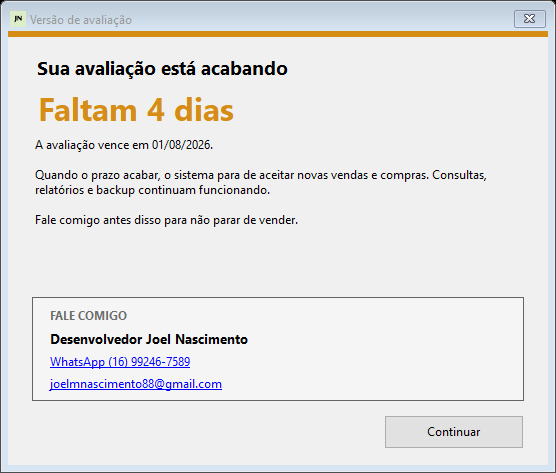
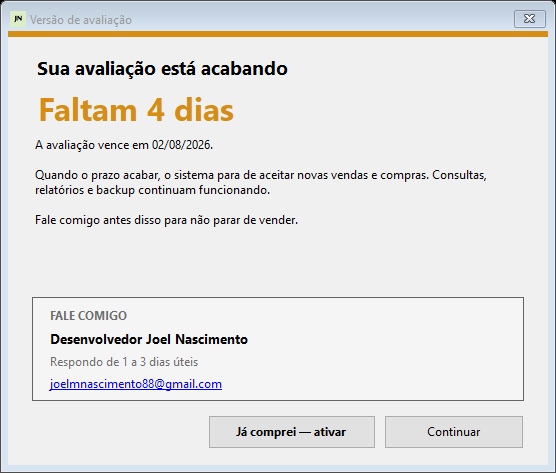
Pede o contato antes de liberar o download
O diálogo que abre ao clicar em Baixar ganhou uma primeira etapa: e-mail
obrigatório, nome e WhatsApp opcionais, e uma caixa de aceite. Os dados vão
para um formulário do Google, que grava numa planilha — sem biblioteca, sem
chave de API e sem serviço de terceiro no meio.

O aceite NÃO trava o download; o site manda "Sim" ou "Não" conforme a caixa.
Consentimento que só existe porque foi exigido em troca do arquivo não vale
grande coisa, nem para a LGPD nem na prática. O e-mail continua obrigatório,
que é o que identifica o download.

Se o envio falhar, o download acontece assim mesmo. Bloqueador de anúncio
derruba essa requisição com frequência, e prender o visitante por causa de um
formulário quebrado custa mais que a lista.

Cuidado ao mexer no formulário: todo campo obrigatório lá tem que ser enviado
aqui. O Google não responde a chamadas de outra origem, então uma recusa dele
é invisível para o navegador — o visitante veria o download liberado e a
planilha ficaria vazia, sem nada avisando. Foi o que aconteceu no primeiro
teste, com o formulário exigindo login: 401 em todas as tentativas.

Também atualiza o print do aviso de avaliação, que ganhou o botão de ativar.

diff --git a/index.html b/index.html
@@ -250,6 +250,39 @@ p{margin:0 0 1em;color:var(--creme-medio)}
   border-top:1px solid rgba(251,146,60,.14);
   font-size:.9rem;color:var(--creme-fraco);
 }
+
+/* Etapas do diálogo: pedir o e-mail e, depois, explicar a instalação.
+   Sem o formulário configurado o JS pula direto para a segunda. */
+.dialogo [data-etapa]{display:none}
+.dialogo[data-fase="email"] [data-etapa="email"]{display:block}
+.dialogo[data-fase="instrucoes"] [data-etapa="instrucoes"]{display:block}
+
+.campo{
+  width:100%;padding:.85rem 1rem;margin-top:.35rem;
+  background:rgba(255,255,255,.05);
+  border:1px solid rgba(237,232,222,.22);
+  border-radius:12px;
+  color:var(--creme);font-size:1rem;font-family:inherit;
+}
+.campo:focus{outline:none;border-color:var(--laranja)}
+.campo::placeholder{color:var(--creme-fraco)}
+
+.rotulo-campo{display:block;font-weight:600;font-size:.95rem;color:var(--creme);margin-top:1rem}
+.opcional{font-weight:400;font-size:.82rem;color:var(--creme-fraco)}
+
+/* Nome e WhatsApp lado a lado só quando há largura; empilham no celular. */
+.dupla{display:grid;gap:.9rem}
+@media (min-width:520px){.dupla{grid-template-columns:1fr 1fr}}
+
+.aceite{
+  display:flex;gap:.6rem;align-items:flex-start;
+  margin-top:1.1rem;font-size:.9rem;color:var(--creme-fraco);cursor:pointer;
+}
+.aceite input{margin-top:.2rem;accent-color:var(--laranja);width:1.05rem;height:1.05rem;flex:none}
+
+.erro{
+  margin:.9rem 0 0;font-size:.9rem;color:#fca5a5;min-height:1.2em;
+}
 .porque b{color:var(--creme)}
 .fechar{
   position:absolute;top:.9rem;right:1rem;
@@ -292,8 +325,8 @@ p{margin:0 0 1em;color:var(--creme-medio)}
     </p>
     <div class="btns">
       <!-- Coloque o instalador na mesma pasta deste site para o link funcionar. -->
-      <a class="btn btn--principal" href="https://github.com/Joel92246405/sistema-vendas/releases/latest/download/SistemaVendas_Setup_1.0.2.0_Trial.exe" data-baixar>Baixar avaliação de 30 dias</a>
-      <a class="btn btn--zap" href="https://wa.me/5516992467589" target="_blank" rel="noopener">Falar no WhatsApp</a>
+      <a class="btn btn--principal" href="https://github.com/Joel92246405/sistema-vendas/releases/latest/download/SistemaVendas_Setup_1.0.3.0.exe" data-baixar>Baixar avaliação de 30 dias</a>
+      <a class="btn btn--zap" href="mailto:joelmnascimento88@gmail.com?subject=Sistema%20de%20Vendas">Falar comigo por e-mail</a>
     </div>
   </div>
 </section>
@@ -613,12 +646,16 @@ p{margin:0 0 1em;color:var(--creme-medio)}
           </li>
           <li>
             <b>Decida sem pressa</b>
-            <span>O sistema mostra quantos dias restam a cada abertura. Terminando o prazo, é só falar comigo para liberar.</span>
+            <span>O sistema mostra quantos dias restam a cada abertura. Nada de cadastro, cartão ou cobrança automática no fim do prazo.</span>
+          </li>
+          <li>
+            <b>Gostou? É só ativar</b>
+            <span>Comprando, você recebe um código. Abre <b>Arquivo → Ativar Licença</b>, me manda o código do computador e eu devolvo a licença. Vale para 2 computadores e não precisa de internet depois.</span>
           </li>
         </ol>
 
         <div class="btns">
-          <a class="btn btn--principal" href="https://github.com/Joel92246405/sistema-vendas/releases/latest/download/SistemaVendas_Setup_1.0.2.0_Trial.exe" data-baixar>Baixar agora</a>
+          <a class="btn btn--principal" href="https://github.com/Joel92246405/sistema-vendas/releases/latest/download/SistemaVendas_Setup_1.0.3.0.exe" data-baixar>Baixar agora</a>
         </div>
       </div>
 
@@ -655,15 +692,14 @@ p{margin:0 0 1em;color:var(--creme-medio)}
     <p>Atendimento direto com quem desenvolve o sistema — sem fila, sem chamado, sem robô.</p>
 
     <div class="btns">
-      <a class="btn btn--principal" href="https://wa.me/5516992467589" target="_blank" rel="noopener">Chamar no WhatsApp</a>
-      <a class="btn btn--zap" href="mailto:joelmnascimento88@gmail.com?subject=Sistema%20de%20Vendas">Mandar e-mail</a>
+      <a class="btn btn--principal" href="mailto:joelmnascimento88@gmail.com?subject=Sistema%20de%20Vendas">Mandar e-mail</a>
     </div>
 
     <p class="assinatura">
       <b>Joel Nascimento</b> — Desenvolvedor<br>
-      WhatsApp <a href="https://wa.me/5516992467589" target="_blank" rel="noopener">(16) 99246-7589</a>
-      &nbsp;·&nbsp;
       <a href="mailto:joelmnascimento88@gmail.com">joelmnascimento88@gmail.com</a>
+      &nbsp;·&nbsp;
+      respondo de 1 a 3 dias úteis
     </p>
   </div>
 </section>
@@ -677,19 +713,65 @@ p{margin:0 0 1em;color:var(--creme-medio)}
   </div>
 </footer>
 
-<!-- Aparece depois do clique em baixar. O download acontece do mesmo jeito:
-     este aviso só explica a tela do Windows que vem a seguir. -->
+<!-- Aparece ao clicar em baixar. Duas etapas: o e-mail e, depois, o aviso do
+     SmartScreen. Sem o formulário configurado no script, a primeira é pulada e
+     o download acontece direto, como antes. -->
 <div class="veu" id="veuInstalacao" role="dialog" aria-modal="true" aria-labelledby="tituloAviso">
-  <div class="dialogo">
+  <div class="dialogo" id="dialogoBaixar" data-fase="instrucoes">
     <button class="fechar" type="button" data-fechar aria-label="Fechar">&times;</button>
 
+    <div data-etapa="email">
+      <h3>Quase lá</h3>
+      <p>Deixe seu e-mail e o download começa em seguida.</p>
+
+      <form id="formEmail" novalidate>
+        <label class="rotulo-campo" for="campoEmail">Seu e-mail</label>
+        <input class="campo" id="campoEmail" name="email" type="email"
+               placeholder="voce@exemplo.com" autocomplete="email" required>
+
+        <div class="dupla">
+          <div>
+            <label class="rotulo-campo" for="campoNome">Nome <span class="opcional">opcional</span></label>
+            <input class="campo" id="campoNome" type="text" placeholder="como te chamo"
+                   autocomplete="name">
+          </div>
+          <div>
+            <label class="rotulo-campo" for="campoZap">WhatsApp <span class="opcional">opcional</span></label>
+            <input class="campo" id="campoZap" type="tel" placeholder="(00) 00000-0000"
+                   autocomplete="tel">
+          </div>
+        </div>
+
+        <label class="aceite">
+          <input type="checkbox" id="campoAceite">
+          <span>Aceito receber contato sobre o Sistema de Vendas — avisos de atualização
+          e novidades. Sem isso, uso seu e-mail só para este download.</span>
+        </label>
+
+        <p class="erro" id="erroEmail" role="alert"></p>
+
+        <div class="btns" style="margin-top:1.2rem">
+          <button class="btn btn--principal" type="submit">Liberar download</button>
+        </div>
+      </form>
+
+      <p class="porque">
+        <b>O que eu faço com isso?</b> O e-mail identifica o download. Marcando o aceite,
+        também te aviso quando sai correção ou função nova — e você sai da lista quando
+        quiser, pedindo em
+        <a href="mailto:joelmnascimento88@gmail.com">joelmnascimento88@gmail.com</a>.
+        Não repasso seus dados para ninguém.
+      </p>
+    </div>
+
+    <div data-etapa="instrucoes">
     <h3 id="tituloAviso">O download começou</h3>
     <p>São 50 MB. Enquanto baixa, leia isto — vai te poupar um susto.</p>
 
     <ol class="passos">
       <li>
         <b>Abra o arquivo baixado</b>
-        <span>Procure <b>SistemaVendas_Setup_1.0.2.0_Trial.exe</b> na pasta Downloads e dê dois cliques.</span>
+        <span>Procure <b>SistemaVendas_Setup_1.0.3.0.exe</b> na pasta Downloads e dê dois cliques.</span>
       </li>
       <li>
         <b>O Windows vai avisar</b>
@@ -706,29 +788,128 @@ p{margin:0 0 1em;color:var(--creme-medio)}
     <p class="porque">
       <b>Por que esse aviso?</b> O Windows exibe essa tela para todo programa novo que
       ainda não comprou um certificado de assinatura digital. Ele não diz que há vírus —
-      diz que ainda não conhece o programa. Se preferir, me chame no WhatsApp e eu
+      diz que ainda não conhece o programa. Se preferir, me escreva e eu
       acompanho a instalação com você.
     </p>
 
     <div class="btns">
-      <a class="btn btn--zap" href="https://wa.me/5516992467589" target="_blank" rel="noopener">Preciso de ajuda</a>
+      <a class="btn btn--zap" href="mailto:joelmnascimento88@gmail.com?subject=Ajuda%20na%20instala%C3%A7%C3%A3o">Preciso de ajuda</a>
       <button class="btn btn--principal" type="button" data-fechar>Entendi</button>
+    </div>
     </div>
   </div>
 </div>
 
 <script>
 (function(){
+  // ------------------------------------------------------------------
+  // CAPTURA DE CONTATO — vai para um formulário do Google, que grava numa
+  // planilha do Joel. Sem biblioteca, sem chave de API, sem serviço de
+  // terceiro no meio.
+  //
+  // Formulário: "JN Soluções - Sistema de Vendas e Estoque"
+  //
+  // ATENÇÃO ao mexer no formulário: todo campo marcado como OBRIGATÓRIO lá
+  // precisa ser enviado aqui. O Google não responde a chamadas de outra
+  // origem, então uma recusa dele é INVISÍVEL — o visitante veria o download
+  // liberado e a planilha ficaria vazia, sem nada avisando.
+  //
+  // Hoje são obrigatórios: E-mail e o aceite (que sempre vai, "Sim" ou "Não").
+  //
+  // Para descobrir os códigos de um campo novo: menu de três pontos do
+  // formulário > "Obter link pré-preenchido" > preencher > "Obter link".
+  // O link traz entry.NNNN=valor para cada campo.
+  // ------------------------------------------------------------------
+  var ENDERECO = 'https://docs.google.com/forms/d/e/1FAIpQLSd9K7lIm2BTKN5wcKI6nAMXFWf1HiOhuUwl3sC7KpN97bYZeg/formResponse';
+  var CAMPO_EMAIL = 'entry.399285852';
+  var CAMPO_NOME = 'entry.1380806128';
+  var CAMPO_ZAP = 'entry.895260593';
+  var CAMPO_ACEITE = 'entry.1773159061';
+
   var veu = document.getElementById('veuInstalacao');
   if (!veu) return;
 
-  function abrir(){ veu.setAttribute('data-aberto','1'); }
+  var dialogo = document.getElementById('dialogoBaixar');
+  var formulario = document.getElementById('formEmail');
+  var campoEmail = document.getElementById('campoEmail');
+  var campoNome = document.getElementById('campoNome');
+  var campoZap = document.getElementById('campoZap');
+  var campoAceite = document.getElementById('campoAceite');
+  var erro = document.getElementById('erroEmail');
+
+  var pedirEmail = !!(ENDERECO && CAMPO_EMAIL);
+  var destino = '';
+
+  function abrir(fase){
+    dialogo.setAttribute('data-fase', fase);
+    veu.setAttribute('data-aberto','1');
+    if (fase === 'email') campoEmail.focus();
+  }
+
   function fechar(){ veu.removeAttribute('data-aberto'); }
 
-  // Sem preventDefault: o navegador baixa o arquivo e o aviso aparece por cima.
+  function baixar(){
+    if (!destino) return;
+    var link = document.createElement('a');
+    link.href = destino;
+    link.rel = 'noopener';
+    document.body.appendChild(link);
+    link.click();
+    link.remove();
+  }
+
   document.querySelectorAll('[data-baixar]').forEach(function(botao){
-    botao.addEventListener('click', function(){ setTimeout(abrir, 400); });
+    botao.addEventListener('click', function(e){
+      destino = botao.getAttribute('href');
+
+      if (!pedirEmail){
+        // Sem preventDefault: o navegador baixa e o aviso aparece por cima.
+        setTimeout(function(){ abrir('instrucoes'); }, 400);
+        return;
+      }
+
+      e.preventDefault();
+      erro.textContent = '';
+      formulario.reset();
+      abrir('email');
+    });
   });
+
+  if (formulario){
+    formulario.addEventListener('submit', function(e){
+      e.preventDefault();
+
+      var email = campoEmail.value.trim();
+
+      if (!/^[^\s@]+@[^\s@]+\.[^\s@]{2,}$/.test(email)){
+        erro.textContent = 'Confira o e-mail — parece que falta alguma coisa.';
+        campoEmail.focus();
+        return;
+      }
+
+      // O aceite NÃO trava o download. Ele é consentimento para contato de
+      // marketing, e consentimento que só existe porque foi exigido em troca
+      // do arquivo não vale grande coisa — nem para a LGPD, nem na prática.
+      // O e-mail continua obrigatório: é o que identifica o download.
+      var dados = new FormData();
+      dados.append(CAMPO_EMAIL, email);
+      dados.append(CAMPO_ACEITE, campoAceite.checked ? 'Sim' : 'Não');
+
+      if (campoNome && campoNome.value.trim()) dados.append(CAMPO_NOME, campoNome.value.trim());
+      if (campoZap && campoZap.value.trim()) dados.append(CAMPO_ZAP, campoZap.value.trim());
+
+      // O formulário do Google não responde a chamadas de outra origem, então
+      // não dá para saber se gravou. Segue em frente de qualquer jeito: prender
+      // o cliente porque o envio falhou custa muito mais que um e-mail perdido.
+      // Bloqueador de anúncio derruba esta requisição com frequência.
+      try {
+        fetch(ENDERECO, { method:'POST', mode:'no-cors', body:dados }).catch(function(){});
+      } catch (_) { /* segue */ }
+
+      abrir('instrucoes');
+      baixar();
+    });
+  }
 
   veu.addEventListener('click', function(e){
     if (e.target === veu || e.target.hasAttribute('data-fechar')) fechar();

diff --git a/README.md b/README.md
@@ -33,10 +33,14 @@ arquivo desse tamanho. Ele vai como anexo de *Release*:
    rejeita o que você digita:
 
    ```bash
-   git tag v1.0.3 && git push origin v1.0.3
+   git tag v1.0.4 && git push origin v1.0.4
    ```
 
-   A página aponta hoje para `SistemaVendas_Setup_1.0.2.0_Trial.exe`.
+   A página aponta hoje para `SistemaVendas_Setup_1.0.3.0.exe`.
+
+   **A partir da 1.0.3 existe um instalador só.** Não há mais versão "Trial"
+   separada: quem instala começa em avaliação e vira licenciado ativando dentro
+   do sistema. O mesmo arquivo serve ao download da página e à entrega da venda.
 
 2. Em **Releases** → *Draft a new release*, **selecione a tag na lista**.
 3. Anexe o instalador e espere o upload dos 50 MB terminar antes de publicar.
@@ -61,6 +65,45 @@ antes de desenhar a tela, e não editando o pixel depois, para o texto sair com
 a mesma fonte do resto da imagem.
 
 **Print novo que mostre dado pessoal passa pelo mesmo tratamento antes de subir.**
+
+## Pedir o e-mail antes do download
+
+O diálogo que abre ao clicar em Baixar tem duas etapas: o e-mail e o aviso do
+SmartScreen. **A primeira vem desligada** — enquanto as constantes no fim do
+`index.html` estiverem vazias, o download acontece direto, como sempre.
+
+Para ligar, crie um formulário do Google com dois campos (e-mail e uma caixa de
+aceite) e pegue três valores:
+
+1. No formulário: menu de três pontos → **Obter link pré-preenchido**
+2. Preencha qualquer coisa e clique em **Obter link**
+3. O link copiado é assim:
+
+   ```
+   https://docs.google.com/forms/d/e/SEU_ID/viewform?usp=pp_url&entry.111111=x&entry.222222=y
+   ```
+
+   - troque `/viewform?...` por `/formResponse` → é o `ENDERECO`
+   - `entry.111111` é o `CAMPO_EMAIL`
+   - `entry.222222` é o `CAMPO_ACEITE`
+
+Cole os três no bloco do `<script>`, no fim do `index.html`.
+
+**Por que formulário do Google e não Firebase:** os dois guardam o dado na
+Google de qualquer jeito, então a independência que o Firebase daria é menor do
+que parece. O que muda é o risco. Uma regra de segurança errada no Firestore
+deixa **a lista inteira de e-mails aberta para qualquer um baixar**, em silêncio.
+Aqui o pior caso é perder um e-mail.
+
+**Se o envio falhar, o download libera assim mesmo.** Bloqueador de anúncio
+derruba essa requisição com frequência, e prender o cliente por causa de um
+formulário quebrado custa mais que a lista.
+
+## Contato: só e-mail
+
+O WhatsApp saiu da página, do sistema e do instalador em 30/07/2026. Canal
+aberto com número pessoal dentro de binário distribuído não se desfaz depois.
+Se um dia voltar, que seja um número separado.
 
 ## O código-fonte do sistema não está aqui
 
